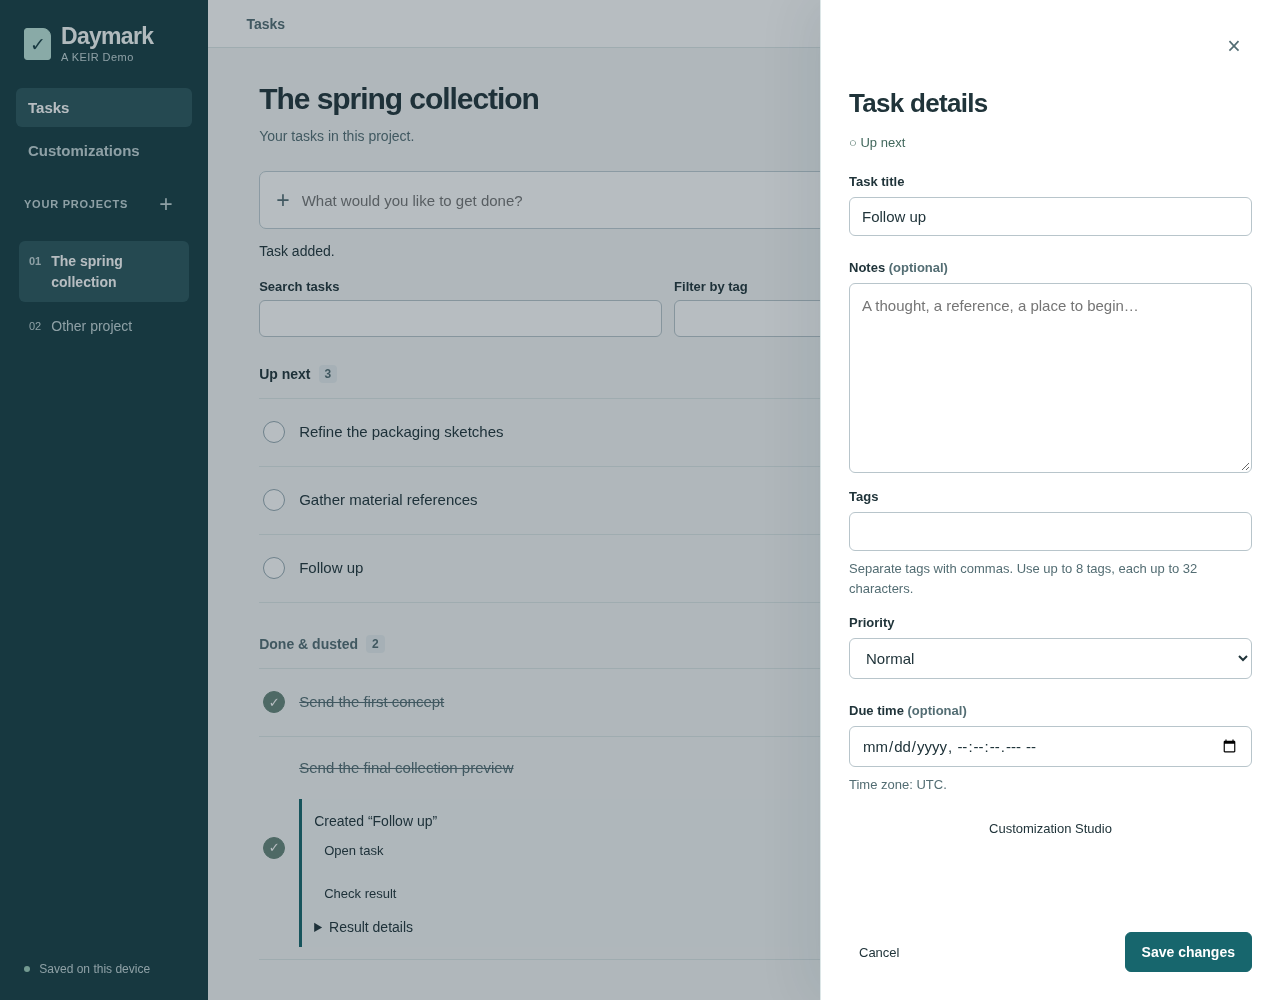
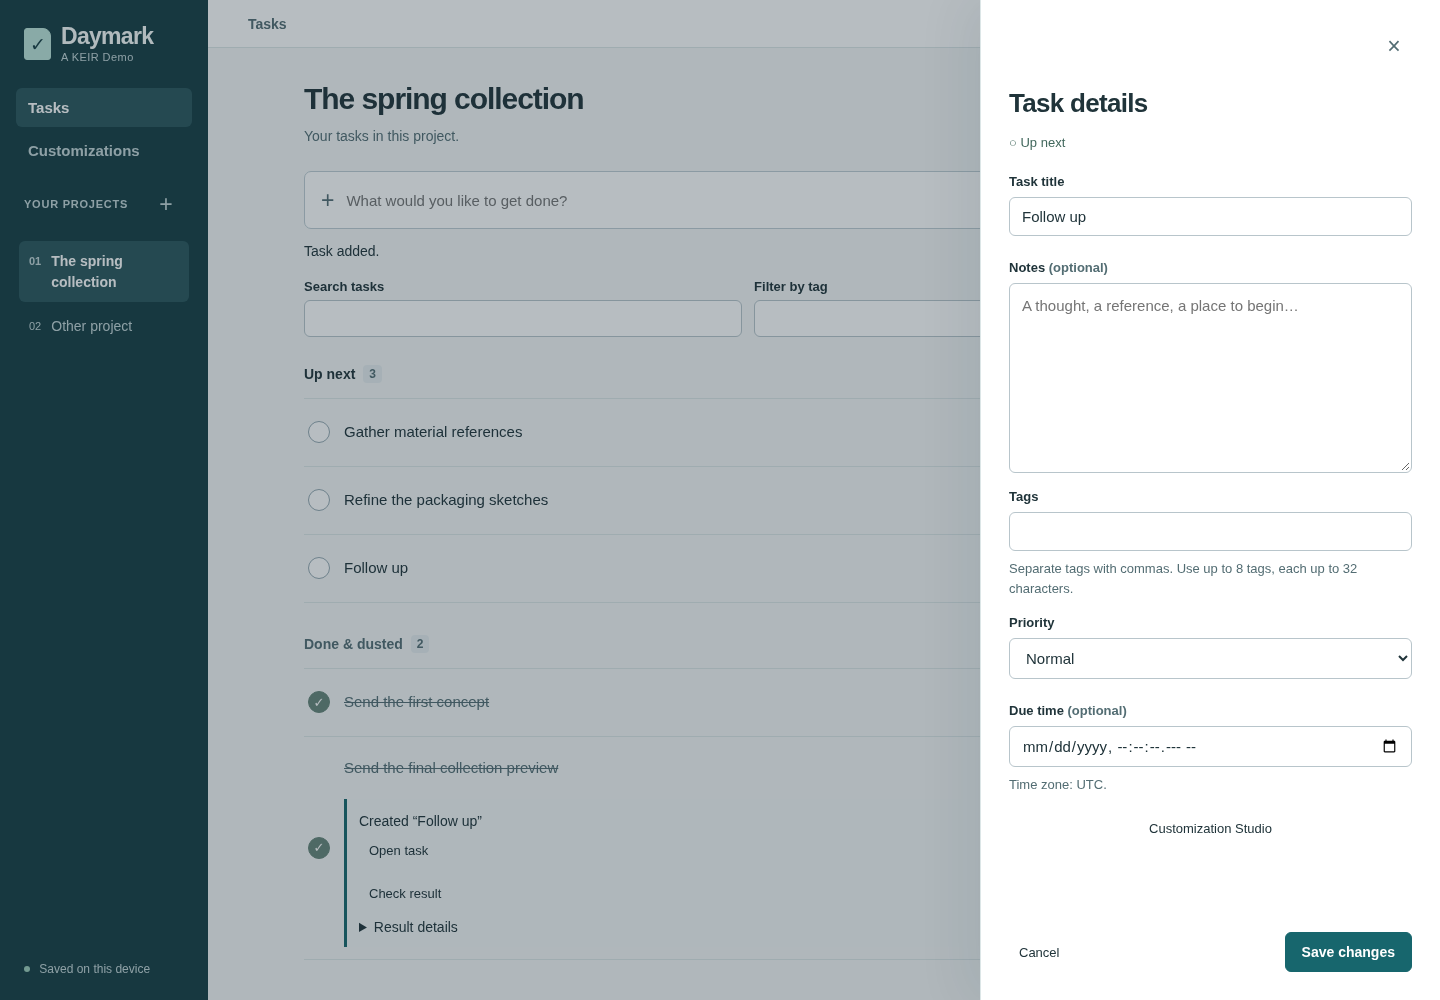
Refresh Core tour screenshots for the polished Studio flow

diff --git a/docs/images/daymark-walkthrough/README.md b/docs/images/daymark-walkthrough/README.md
@@ -1,13 +1,16 @@
 # Walkthrough image provenance
 
-These three images are copied unchanged from Daymark's documentation in `rore/keir-demo-app`, commit `74778142e29048bfae0493d264a2e6e2fe7a14fd`, under `docs/images/walkthrough/`. The source walkthrough is `docs/customization-walkthrough.md` at that same commit. Access to the source repository is optional; the Core walkthrough uses these local copies.
+These four images are copied unchanged from Daymark's documentation in `rore/keir-demo-app`, commit [`f9ea7690adc7eeb9ee617ef6d727bb1d848688b9`](https://github.com/rore/keir-demo-app/commit/f9ea7690adc7eeb9ee617ef6d727bb1d848688b9), under `docs/images/walkthrough/`. The [source walkthrough](https://github.com/rore/keir-demo-app/blob/f9ea7690adc7eeb9ee617ef6d727bb1d848688b9/docs/customization-walkthrough.md) and [capture provenance](https://github.com/rore/keir-demo-app/blob/f9ea7690adc7eeb9ee617ef6d727bb1d848688b9/docs/images/walkthrough/provenance.md) are pinned to that same commit. Access to Daymark is optional: the Core tour uses these local copies.
 
-They are genuine application screenshots using fictional, disposable data. Authoring replies were scripted by Daymark's offline test fixture. Compilation, simulation, approval, activation and native task writes were real. These are not generated UI images or evidence of live model responses.
+The capture provenance identifies the rendered application revision as `2e8516927276d8313793b15e9717e88cde46988f`, before these refreshed images were committed. The images show the verified Studio polish: a structured Summary, recorded simulation values, a separately approved version and the native saved result. The earlier Core copies remain in Git history.
 
-Daymark's documentation is licensed under Apache License 2.0. No separate license or NOTICE accompanies these images in the source documentation tree. Core includes the same [Apache License 2.0](../../../LICENSE). No pixels, metadata or image dimensions were changed when copying these files.
+They are genuine application screenshots using fictional, disposable data. Authoring replies were scripted by Daymark's offline test fixture; compilation, simulation, approval, activation and native task writes were real. The saved customization name was explicitly chosen through Rename and Save. These are not generated UI images or evidence of live model responses. No paid AI requests were made for this capture.
 
-| File | SHA-256 |
-| --- | --- |
[3 lines of base64/hex data omitted]
+Daymark's documentation is licensed under Apache License 2.0. No separate license or NOTICE accompanies these images in the source documentation tree. Core includes the same [Apache License 2.0](../../../LICENSE). Every copied file is byte-for-byte identical to its pinned source; no pixels, embedded metadata or dimensions were changed. All four images are 1,440 × 1,000 pixels.
+
+| File | Bytes | SHA-256 |
+| --- | ---: | --- |
[4 lines of base64/hex data omitted]

diff --git a/docs/guided-tour.md b/docs/guided-tour.md
@@ -13,17 +13,21 @@ A user asks:
 
 > When a task in this project is completed, create a follow-up.
 
-The assistant turns the request into a proposed extension using the operations the application exposes. Keir's compiler checks it against the application's model. The application shows the proposed behavior so the user can ask for a change before continuing.
+The assistant turns the request into a proposed extension using the operations the application exposes. Keir's compiler checks it against the application's model. Daymark's **Summary** separates **When**, **Only when** and **Then**, so the user can review the proposed behavior and ask for a change before continuing. The full explanation remains available under **Rule details**.
+
+![Daymark's proposed Summary separates When, Only when and Then, while the customization is marked Not on.](images/daymark-walkthrough/02-summary.png)
+
+*The application presents the checked behavior in terms the user can review. Keir supplies the compiler checks behind it.*
 
 ## 2. Check examples and approve the version
 
 The application runs the compiled extension with example data and simulated service responses. The user compares expected and observed behavior, including cases where the extension should do nothing or cannot read the data it needs. These checks leave real saved tasks unchanged.
 
-![Daymark's simulation shows checked outcomes and an Approve this change button.](images/daymark-walkthrough/03-simulation.png)
+![Daymark's simulation shows the triggering task beside the separate created task, recorded values and expandable checked examples.](images/daymark-walkthrough/03-simulation.png)
 
-*Keir executes the extension; Daymark supplies the example data and presents the results. The screen also states which situations these checks do not cover.*
+*Keir executes the extension; Daymark supplies the example data and presents the results. This example records the new task's title, project and tags, and explicitly says that its other details were not checked.*
 
-When the behavior is right, **Approve this change** records agreement to this exact version and its saved checks. Changing the extension requires new checks and approval.
+The user reads the examples and their coverage limits, then chooses **Go to approval**. When the behavior is right, **Approve this change** records agreement to this exact version and its saved checks. Changing the extension requires new checks and approval.
 
 ## 3. Turn it on separately
 
